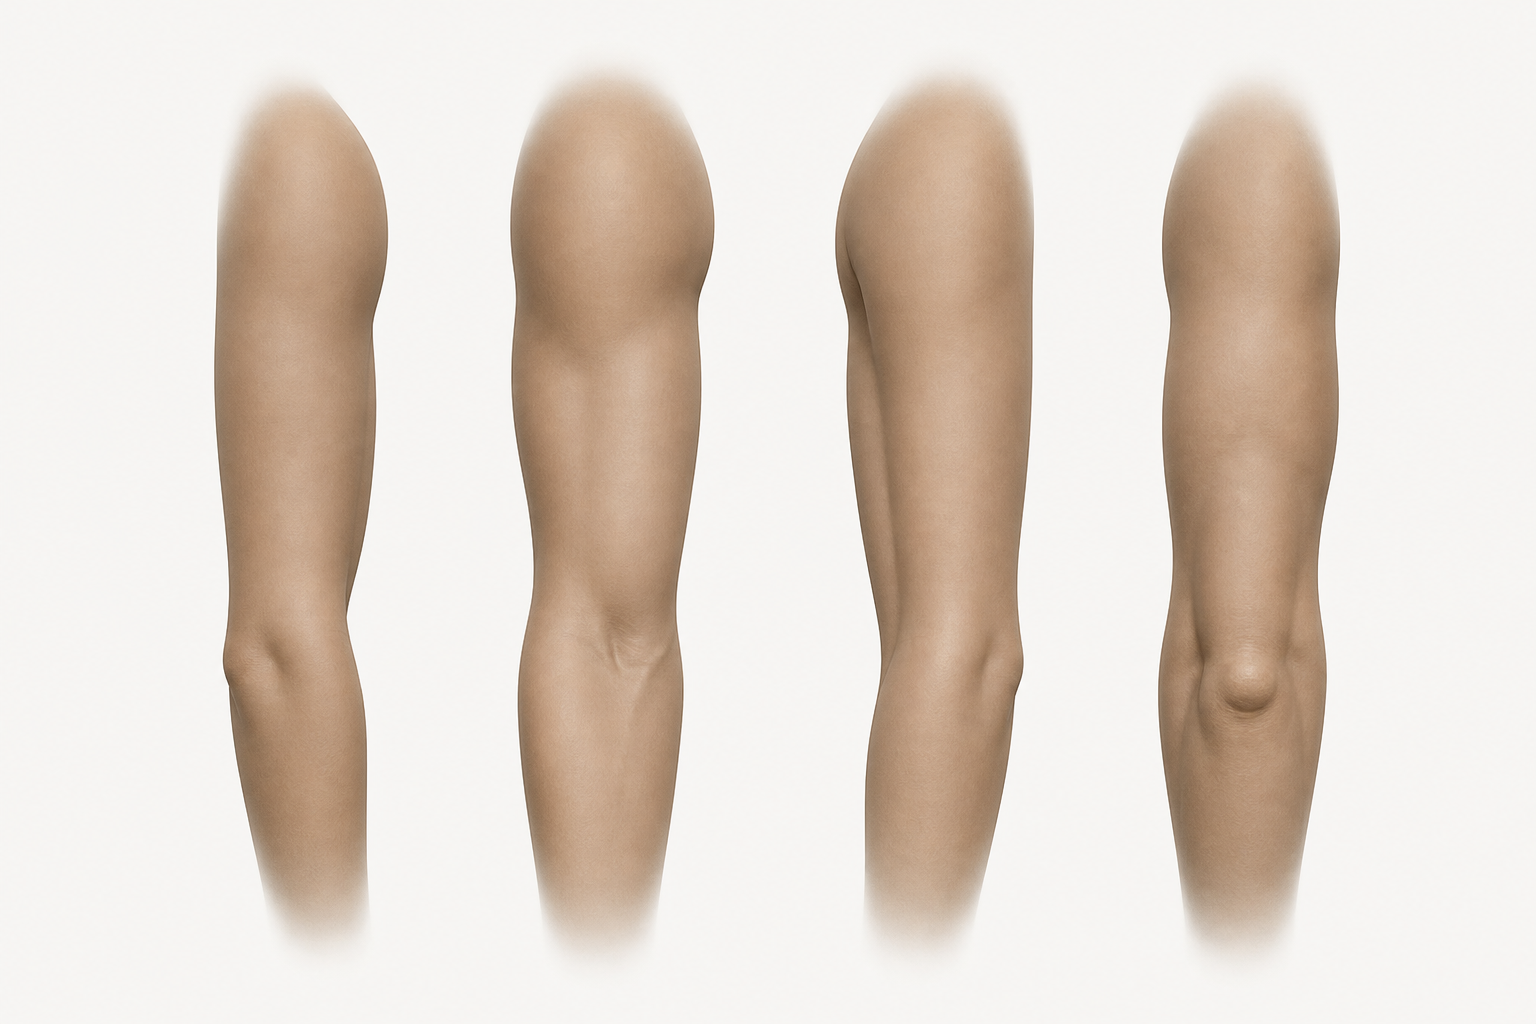
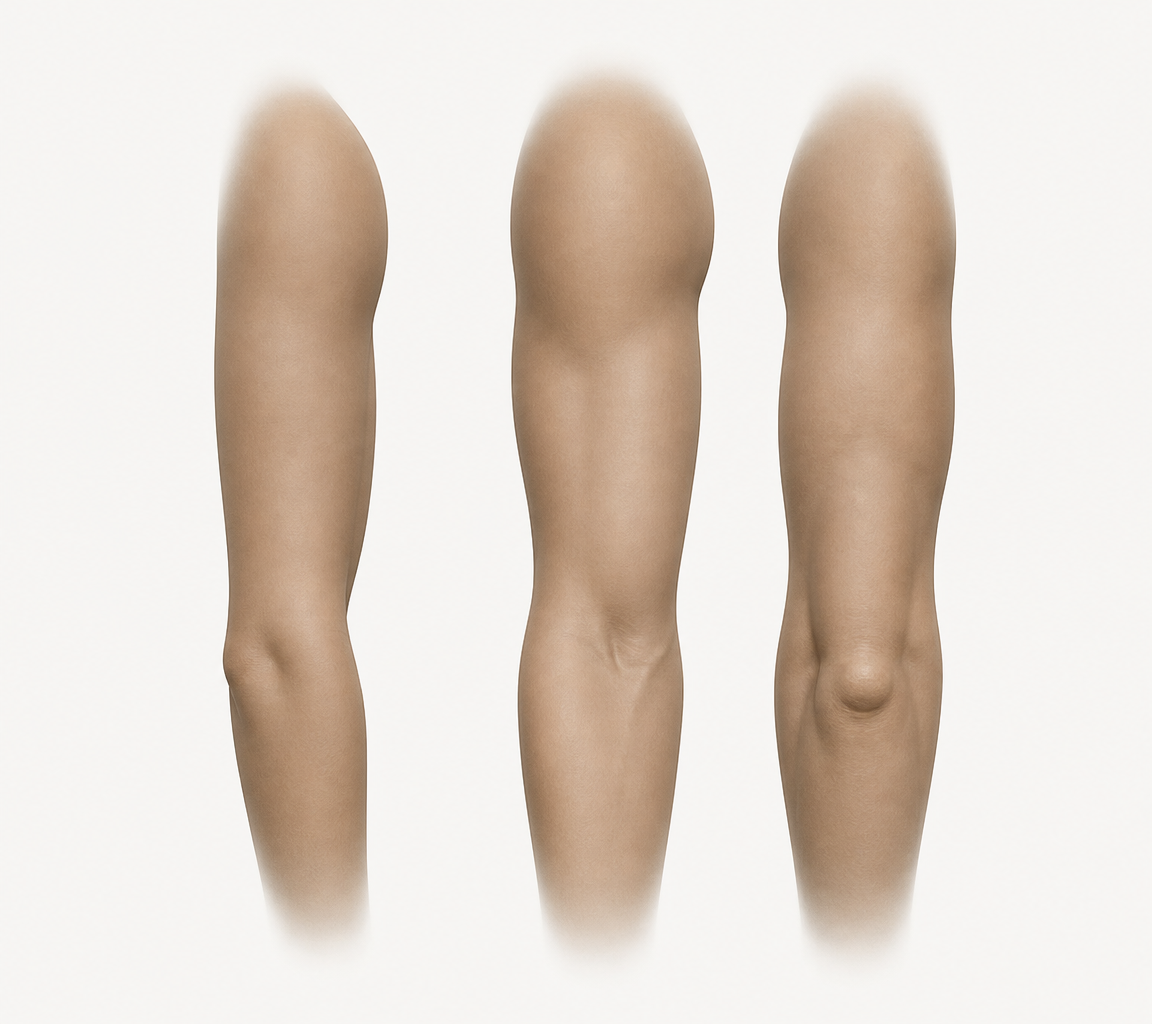
feat(ink): three angles, locked — side, middle, back, re-laid rather than re-drawn
Founder ruling, fable-964 §2: "3 angles should be locked we dont need 4."

RE-LAID, NOT RE-DRAWN, and that is the fidelity choice rather than the cheap
one. The three views are his own approved pixels at their NATIVE size, cropped
out of the four-view sheet and set on a canvas a quarter narrower (1152x1024,
still a legal multiple of 16). Nothing is interpolated, so nothing is softened —
and each view now occupies a third of the frame instead of a quarter, which is
the "bigger" that costs no fidelity at all. A re-generation would have bought
new pixels he has not looked at, to solve a problem cropping already solves.

WHICH VIEW WENT, decided by measurement rather than by eye: the sheet held two
side views, and the one dropped was the closest of any pair to the middle view
(mean absolute difference 27.5, against 34.7 for the side that stayed) — the
least new information on the sheet. The ground colour of the new canvas is read
off the source's own corner (244,244,241), never chosen.

The pin moves with it, which is the pin working rather than the pin failing: its
job is to catch a SILENT swap, and this one is a ruling. The superseded
four-view sheet is committed beside it so the record says the sheet changed by
his word. Plates already minted carry the digest they actually stood on, which
is what `casting_ink_plates.templateDigest` is for.

One test hard-coded 1536 and now derives the canvas from the template it is
[…]

diff --git a/server/castingV2/inkTemplates.ts b/server/castingV2/inkTemplates.ts
@@ -75,18 +75,38 @@ export type InkTemplate = {
 /**
  * The two forms, and the two digests.
  *
- * `arm` is the four-rotation turnaround: a wrap-around design has to stay
- * consistent from every angle, which is the property the first near-white
- * version failed and the redo bought with the elbow (fable-949 §2, fable-954 §1).
+ * `arm` is the three-rotation turnaround — side, middle, back (founder ruling,
+ * fable-964 §2). A wrap-around design has to stay consistent from every angle,
+ * which is the property the first near-white version failed and the redo bought
+ * with the elbow (fable-949 §2, fable-954 §1); whether a SHEET of angles reads
+ * as one design at all is the wrap court, which runs after the render wiring.
  * `body` is front and back on one plate.
  */
 export const INK_TEMPLATES: Readonly<Record<InkTemplateKind, InkTemplate>> = Object.freeze({
   arm: Object.freeze({
     kind: "arm",
     file: "assets/ink/arm-template.png",
[1 lines of base64/hex data omitted]
+    /*
+      THE THREE-VIEW SHEET (founder ruling, fable-964 §2: "3 angles should be
+      locked we dont need 4"). Side, middle, back.
+
+      RE-LAID, NOT RE-DRAWN, and that is the fidelity choice: the three views
+      are the founder-approved pixels at their NATIVE size, cropped out of the
+      four-view sheet and set on a canvas a quarter narrower. Nothing is
+      interpolated, so nothing is softened — and each view occupies a third of
+      the frame rather than a quarter, which is the "bigger" that costs nothing.
+      The dropped view was the second SIDE, chosen by measurement rather than by
+      eye: it was the closest of any pair to the middle view (mean abs diff
+      27.5 against 34.7 for the side that stayed), so it carried the least new
+      information.
+
+      The superseded four-view sheet is kept in
+      `docs/specs/references/templates/superseded/` — the record says the sheet
+      changed BY RULING, not silently.
+    */
[1 lines of base64/hex data omitted]
     mime: "image/png",
-    width: 1536,
+    width: 1152,
     height: 1024,
   }),
   body: Object.freeze({

diff --git a/server/castingV2/inkPlateEngines.test.ts b/server/castingV2/inkPlateEngines.test.ts
@@ -44,7 +44,13 @@ describe("the canvas a plate is asked for", () => {
     expect(legalPlateCanvas({
       width: INK_TEMPLATES.arm.width,
       height: INK_TEMPLATES.arm.height,
-    })).toEqual({ width: 1536, height: 1024 });
+    })).toEqual({ width: INK_TEMPLATES.arm.width, height: INK_TEMPLATES.arm.height });
+    /* Derived, not retyped: the sheet's shape is a founder ruling that has
+       already moved once (four views to three, fable-964), and a literal here
+       would have to be chased every time it moves again. What is asserted is
+       the PROPERTY — a legal canvas is left alone. */
+    expect(INK_TEMPLATES.arm.width % 16).toBe(0);
+    expect(INK_TEMPLATES.arm.height % 16).toBe(0);
   });
 
   it("never returns a zero-pixel canvas", () => {
